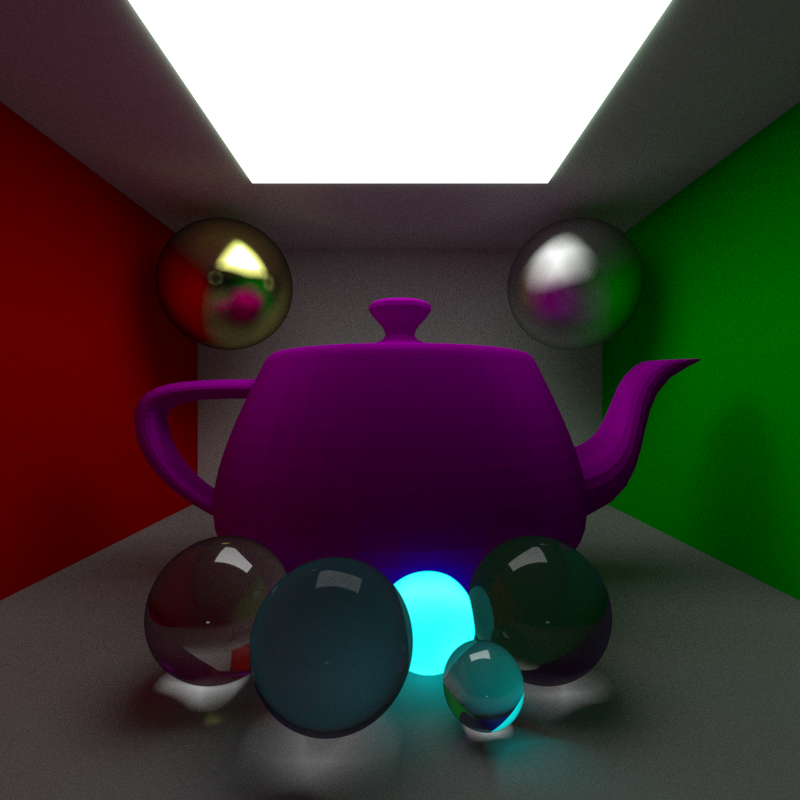
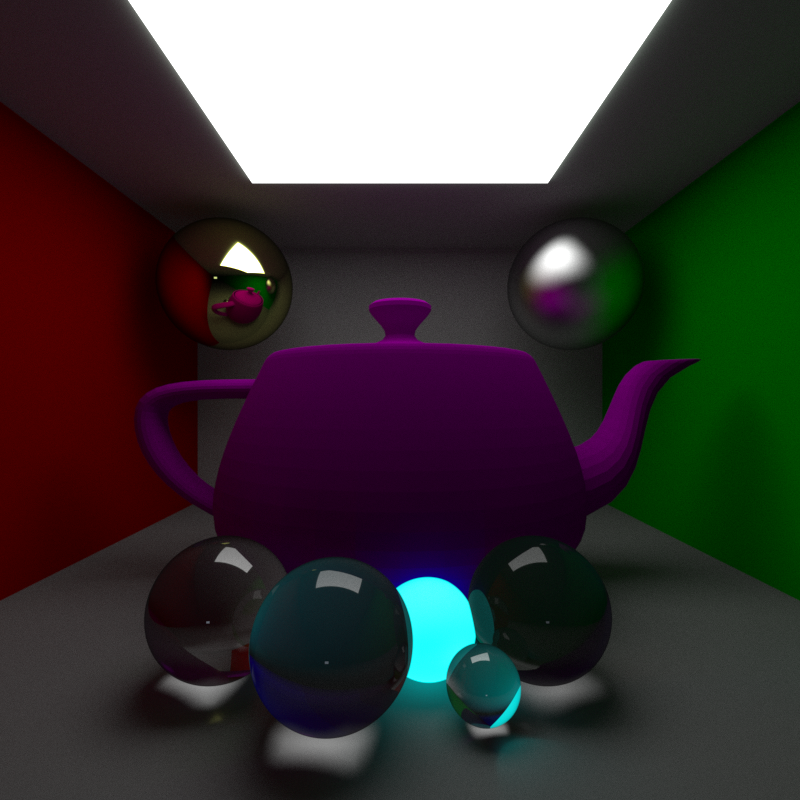
Higher quality render

diff --git a/src/util/tracing.rs b/src/util/tracing.rs
@@ -66,11 +66,21 @@ pub fn refract(v: &Vec3, n: &Vec3, eta: f32) -> Vec3 {
     let r_out_parallel = -f32::sqrt((1.0 - r_out_perp.magnitude2()).abs()) * n;
     return r_out_perp + r_out_parallel;
 }
-// random vector in a unit sphere
+// random vector in a unit sphere (rejection method)
 pub fn rand_sphere_vec() -> Vec3 {
     let mut rng = rand::thread_rng();
     loop {
-        let dir = Vec3 { x: rng.gen_range(-1.0..1.0), y: rng.gen_range(-1.0..1.0), z: rng.gen_range(-1.0..1.0) }.normalize();
+        let dir = Vec3 { x: rng.gen_range(-1.0..1.0), y: rng.gen_range(-1.0..1.0), z: rng.gen_range(-1.0..1.0) };
+        if dir.magnitude2() <= 1.0 {
+            return dir;
+        }
+    }
+}
+// random vector in a unit disk in xy plane (rejection method)
+pub fn rand_disk_vec() -> Vec3 {
+    let mut rng = rand::thread_rng();
+    loop {
+        let dir = Vec3 { x: rng.gen_range(-1.0..1.0), y: rng.gen_range(-1.0..1.0), z: 0.0 };
         if dir.magnitude2() <= 1.0 {
             return dir;
         }
@@ -119,10 +129,12 @@ pub struct Camera {
     pub eyepoint: Vec3,
     pub view_dir: Vec3,
     pub up: Vec3,
-    pub focal_length: f32,
     pub projection_mode: CameraProjectionMode,
     pub screen_width: u32,
     pub screen_height: u32,
+    pub focal_length: f32,
+    //pub focus_dist: f32,
+    //pub lens_radius: f32,
     pub aa_sample_count: u32, // Must be a perfect square
     pub max_trace_dist: f32,
     pub gamma: f32,
@@ -326,7 +338,7 @@ pub fn run() {
             projection_mode: CameraProjectionMode::Perspective,
             screen_width: 800,
             screen_height: 800,
-            aa_sample_count: 2000,
+            aa_sample_count: 4000,
             max_trace_dist: 100.0,
             gamma: 2.0,
         },
@@ -349,7 +361,7 @@ pub fn run() {
             Arc::new(Sphere {
                 center: vec3(-2.7,3.8,-2.0),
                 radius: 1.0,
-                material: Arc::new(Metal { albedo: vec3(1.0,1.0,0.3), glossiness: 0.2 })
+                material: Arc::new(Metal { albedo: vec3(1.0,1.0,0.3), glossiness: 0.0 })
             }),
             Arc::new(Sphere {
                 center: vec3(2.7,3.8,-2.0),
@@ -363,19 +375,19 @@ pub fn run() {
                 material: Arc::new(Dielectric { idx_of_refraction: 1.7 })
             }),
             Arc::new(Sphere {
-                center: vec3(0.2,0.4,2.0),
+                center: vec3(0.2,0.35,2.0),
                 radius: 0.35,
                 material: Arc::new(Lambertian { albedo: vec3(0.3,0.3,0.3), emission: vec3(0.0,1.0,1.0),}),
             }),
             Arc::new(Sphere {
                 center: vec3(0.52,0.23,2.5),
-                radius: 0.25,
+                radius: 0.23,
                 material: Arc::new(Dielectric { idx_of_refraction: 2.5 })
             }),
             Arc::new(Sphere {
                 center: vec3(-0.42,0.5,2.5),
                 radius: 0.5,
-                material: Arc::new(Dielectric { idx_of_refraction: 1.4})
+                material: Arc::new(Dielectric { idx_of_refraction: 2.1})
             }),
 
             // Arc::new(Sphere {
